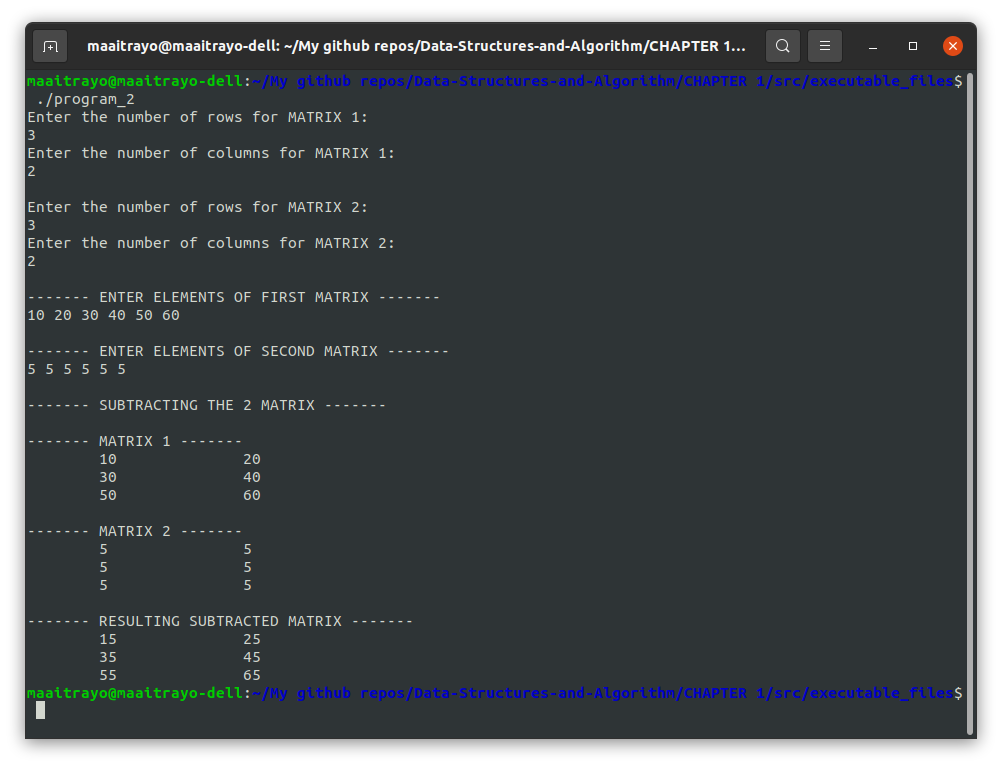
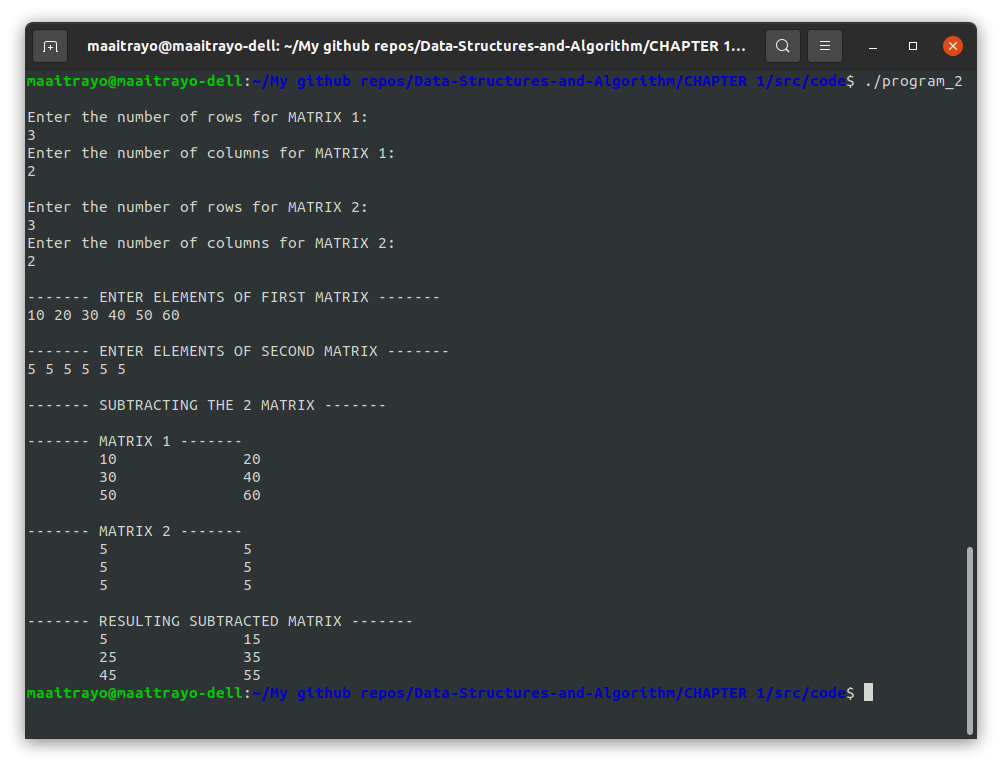
program 2

diff --git a/CHAPTER 1/src/code/program_2.c b/CHAPTER 1/src/code/program_2.c
@@ -39,7 +39,7 @@ int main(){
 	printf("\n------- SUBTRACTING THE 2 MATRIX -------\n");
 	for(i = 0; i < row_2; i++){
 		for(j = 0; j < col_2; j++){
-			arr_sum[i][j] = array_1[i][j] + array_2[i][j];
+			arr_sum[i][j] = array_1[i][j] - array_2[i][j];
 		}
 	}
 
